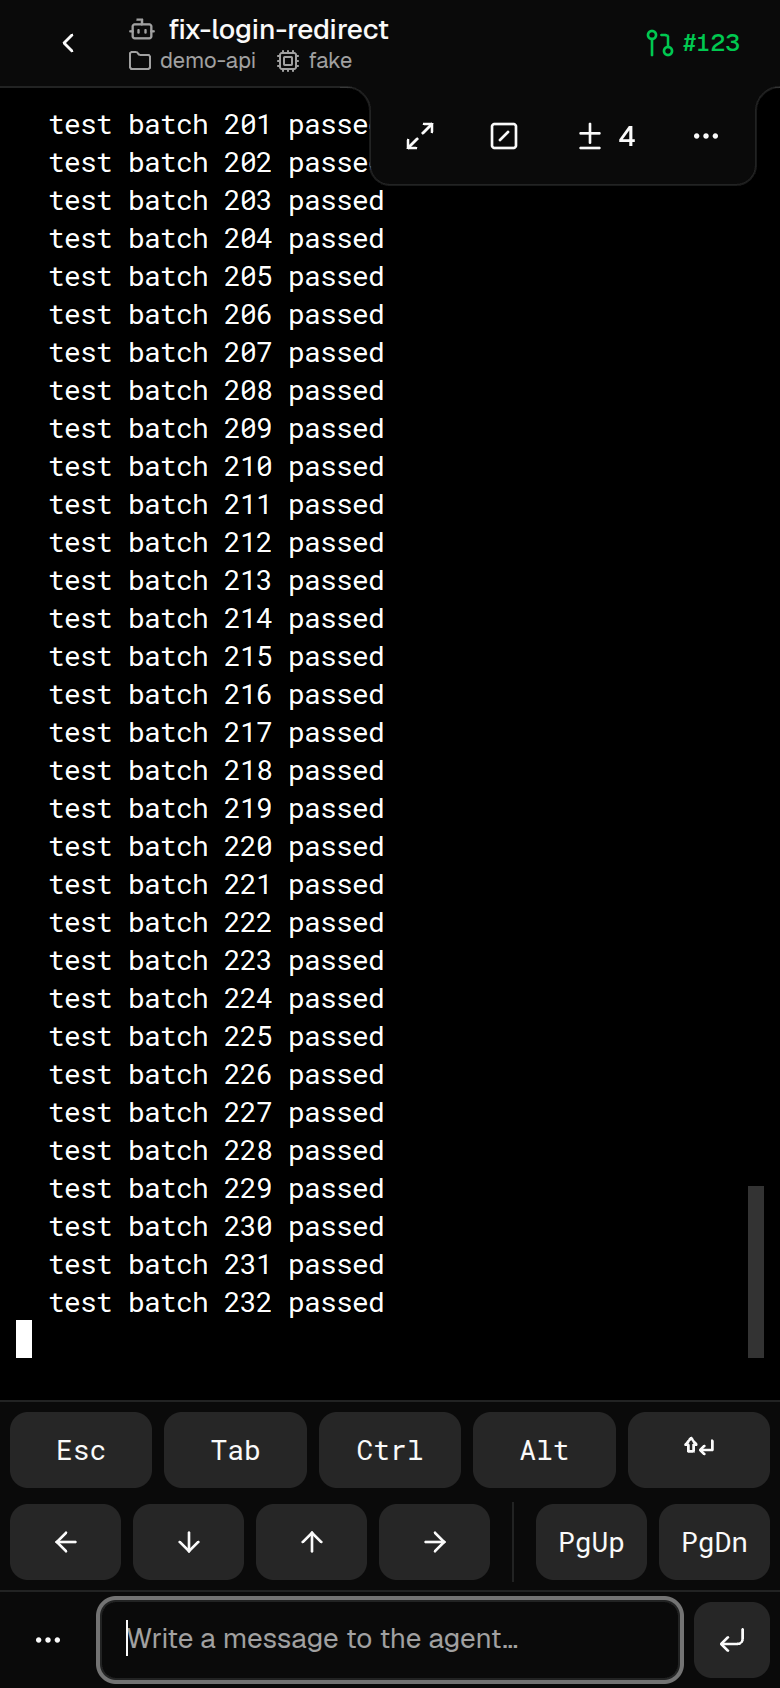
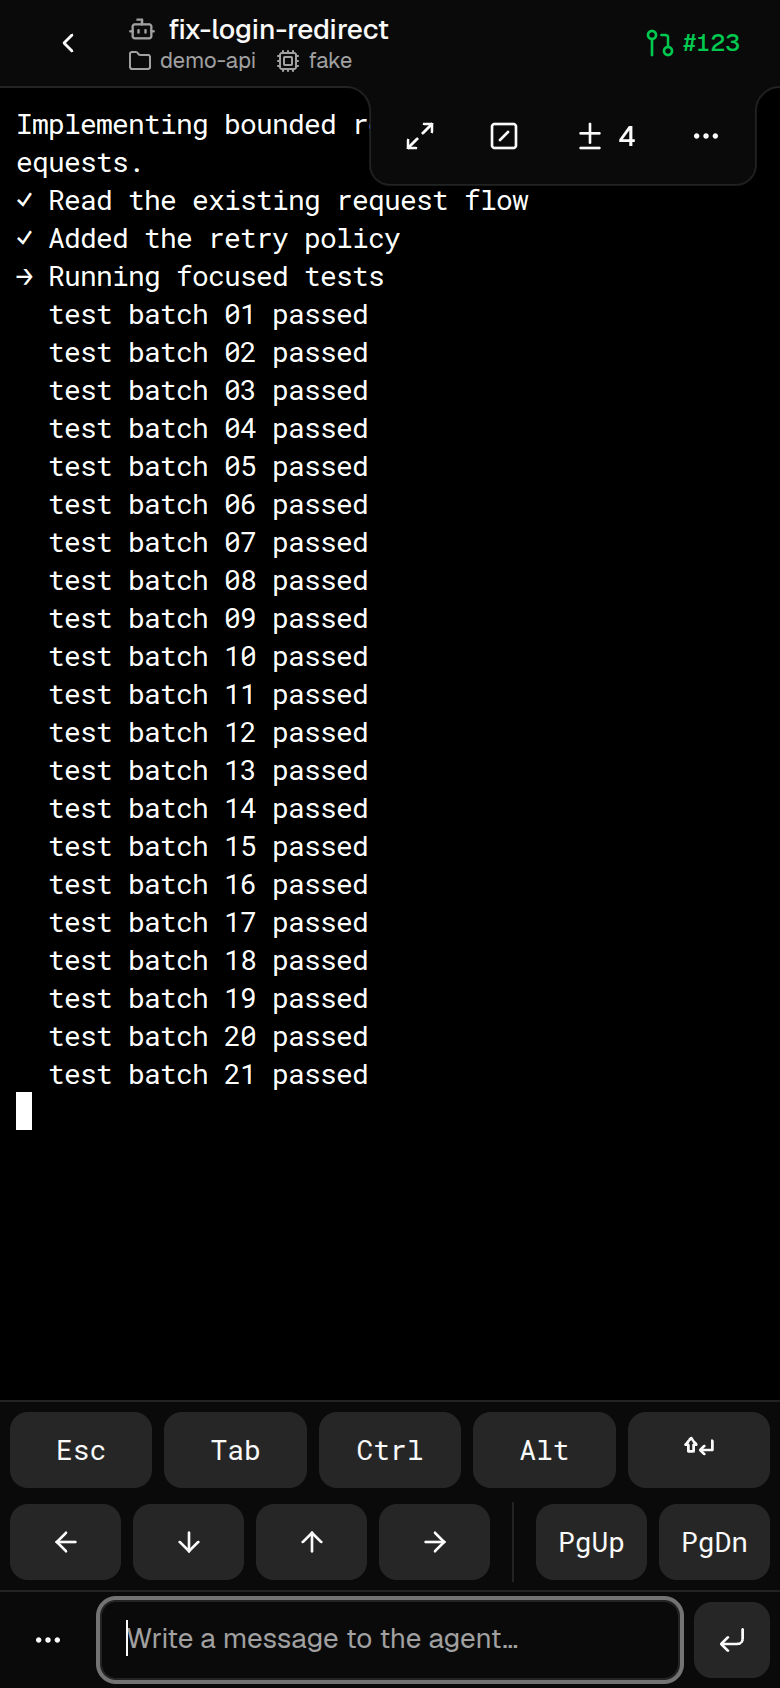
Lay the docked flap's fill under the band's hairline so its translucent outline no longer stacks on the hairline where the flap meets the band

diff --git a/crates/dux-web/web/src/lib/flapShape.test.ts b/crates/dux-web/web/src/lib/flapShape.test.ts
@@ -93,6 +93,26 @@ function readPath(d: string) {
   return { points, sweeps }
 }
 
+/// Whether a point lies inside any closed subpath of `d`, each read as the
+/// polygon through its endpoints. Arcs become chords, which is exact for the
+/// straight runs this is asked about.
+function filled(d: string, x: number, y: number): boolean {
+  return d
+    .split(/(?=M)/)
+    .map((sub) => readPath(sub).points)
+    .some((poly) => {
+      let inside = false
+      for (let i = 0, j = poly.length - 1; i < poly.length; j = i++) {
+        const a = poly[i]
+        const b = poly[j]
+        if (a.y > y !== b.y > y && x < ((b.x - a.x) * (y - a.y)) / (b.y - a.y) + a.x) {
+          inside = !inside
+        }
+      }
+      return inside
+    })
+}
+
 describe("the silhouette, read back as geometry", () => {
   it("stays inside the box it declares, corner to corner", () => {
     const shape = buildFlapShape({ width: 180, height: 50 })
@@ -112,6 +132,24 @@ describe("the silhouette, read back as geometry", () => {
     // The outline reaches the hanging bottom edge, a hairline up from the box.
     expect(Math.max(...ys)).toBeGreaterThan((shape?.height ?? 0) / 2)
     expect(Math.max(...ys)).toBeLessThan(shape?.height ?? 0)
+  })
+
+  it("lays its own fill under every stroke pixel on the band's hairline", () => {
+    // The stroke and the band's hairline are both the translucent border
+    // colour, so wherever the stroke runs over a bare hairline the two stack
+    // into a brighter line. The hairline is the 1px row the flap's top sits on
+    // (`-top-px`), which in SVG units starts FLAP_BLEED down.
+    const shape = buildFlapShape({ width: 180, height: 50 })
+    const fill = shape?.fill ?? ""
+    const width = shape?.width ?? 0
+    const inHairline = FLAP_BLEED + 0.75
+    const belowHairline = FLAP_BLEED + 1.25
+    // The overhangs, where the stroke lies flat along the hairline.
+    expect(filled(fill, 1, inHairline)).toBe(true)
+    expect(filled(fill, width - 1, inHairline)).toBe(true)
+    // Never past it: below the hairline is the terminal.
+    expect(filled(fill, 1, belowHairline)).toBe(false)
+    expect(filled(fill, width - 1, belowHairline)).toBe(false)
   })
 
   it("curves the top corners the opposite way from the bottom ones", () => {

diff --git a/crates/dux-web/web/src/lib/flapShape.ts b/crates/dux-web/web/src/lib/flapShape.ts
@@ -14,6 +14,11 @@
 // and flap are one painted shape; the stroke starts and ends `FLAP_OVERHANG`
 // pixels out on the hairline before curving away, so however a DPR rounds the
 // CSS border, stroke and hairline hand over to each other.
+//
+// The fill also covers the hairline's whole row across the SVG's full width.
+// Stroke and hairline are the same translucent border colour, so the stroke laid
+// over a bare hairline (the overhangs, and the start of each fillet) stacks into
+// a brighter line; over the opaque fill it is exactly the hairline's own tone.
 
 /// The radius of the two concave fillets that flare the flap's top corners out
 /// into the band. 12px reads at DPR 1, where a subtler arc quantizes away.
@@ -39,7 +44,8 @@ export interface FlapShape {
   /// negative: the SVG starts up and to the left of the body it draws.
   left: number
   top: number
-  /// The closed body, painted in the band's color.
+  /// The closed body, painted in the band's color, plus the band's hairline
+  /// row it hangs from. Two subpaths with the same winding, so they union.
   fill: string
   /// The open outline: fillets, sides and bottom corners, and nothing across
   /// the top, because the flap has no top edge.
@@ -71,6 +77,7 @@ export function buildFlapShape(
   // half pixel so a 1px stroke lands on one device pixel at DPR 1.
   const y0 = FLAP_BLEED + 0.5
   const yb = FLAP_BLEED + h - 0.5
+  const hairlineBottom = FLAP_BLEED + 1
 
   const stroke =
     `M 0 ${y0} L ${o} ${y0}` +
@@ -89,7 +96,9 @@ export function buildFlapShape(
     viewBox: `0 0 ${width} ${height}`,
     left: -(f + o),
     top: -FLAP_BLEED,
-    fill: `M 0 0 L${stroke.slice(1)} L ${width} 0 Z`,
+    fill:
+      `M 0 0 L 0 ${hairlineBottom} L ${width} ${hairlineBottom} L ${width} 0 Z` +
+      ` M 0 0 L${stroke.slice(1)} L ${width} 0 Z`,
     stroke,
   }
 }
